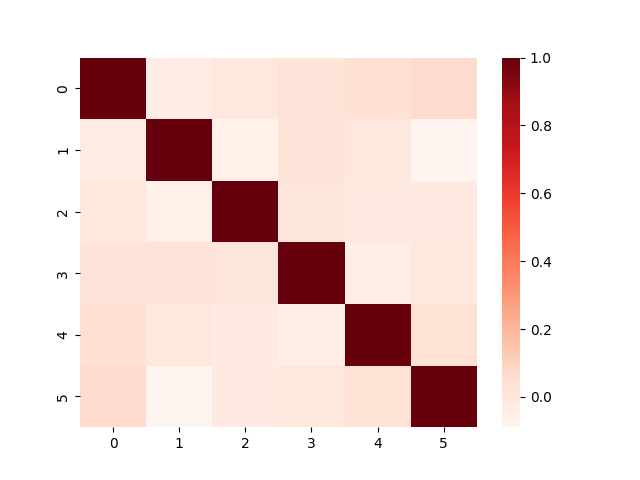
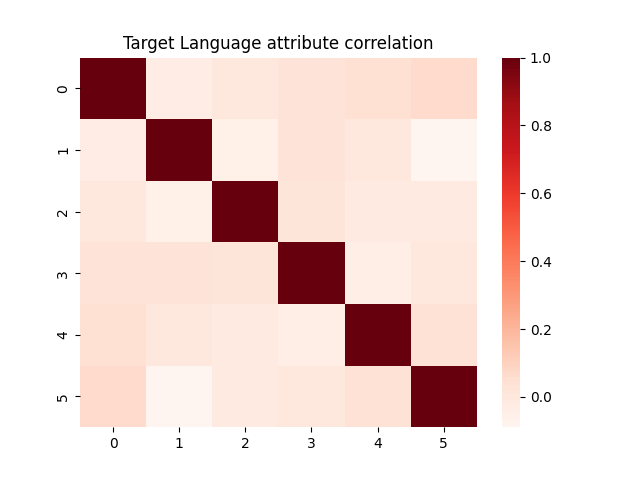
Added a full scatter plot method and visualization to vizualization_data.py

Changed region(s): [[0.1875, 0.0625, 0.6875, 0.125]]

diff --git a/vizualization_data.py b/vizualization_data.py
@@ -24,19 +24,23 @@ def load(pathname, vizualization=0):
     return attribute, label
 
 
-def histogram_1n(male, female, x_axis="", y_axis=""):
-    plt.xlim((min(min(male), min(female)) - 1, max(max(male), max(female)) + 1))
-    plt.hist(male, color="blue", alpha=alpha_val, label=class_label[0], density=True, bins=np.arange(male.min(), male.max()+2,1), edgecolor='grey')
+def histogram_1n(non_target, target, x_axis="", y_axis="", legend = 1):
+    plt.xlim((min(min(non_target), min(target)) - 1, max(max(non_target), max(target)) + 1))
+    plt.hist(non_target, color="blue", alpha=alpha_val, label=class_label[0], density=True, bins=50, edgecolor='grey')
     plt.hist(
-        female, color="red", alpha=alpha_val, label=class_label[1], density=True, bins=np.arange(female.min(), female.max()+2,1), edgecolor='grey'
+        target, color="red", alpha=alpha_val, label=class_label[1], density=True, bins=20, edgecolor='grey'
     )
-    plt.legend(class_label)
+    if legend:
+        plt.legend(class_label)
+
+def scatter_2d(non_target, target, x_axis="", y_axis=""):
+    plt.scatter(non_target[0], non_target[1], c="blue", s=1.5)
+    plt.scatter(target[0], target[1], c="red", s=1.5)
+    plt.xlabel(x_axis)
+    plt.ylabel(y_axis)
 
 
-
-
-
-def graficar(attributes):
+def graficar(attributes, save = 0):
     attribute_names = []
     for i in range(attributes.shape[0]):
         attribute_names.append(str(i))
@@ -54,11 +58,43 @@ def graficar(attributes):
         for yk, yv in values_histogram.items():
             if xk == yk:
                 histogram_1n(xv[0], xv[1], x_axis=xk)
-
-                plt.savefig(f"{os.getcwd()}/Image/histogram-dim-{cont}.png")
+                if save:
+                    plt.savefig(f"{os.getcwd()}/Image/histogram-dim-{cont}.png")
                 plt.show()
                 cont += 1
 
+def long_graficar(attributes):
+    attribute_names = []
+    for i in range(attributes.shape[0]):
+        attribute_names.append(str(i))
+    values_histogram = {}
+
+    for i in range(len(attribute_names)):
+        values_histogram[attribute_names[i]] = [
+            attributes[i, labels == 0],
+            attributes[i, labels == 1],
+        ]
+
+    for a in attribute_names:
+        histogram_1n(
+            values_histogram[a][0],
+            values_histogram[a][1],
+            x_axis=a,
+        )
+
+
+    cont = 1
+    for xk, xv in values_histogram.items():
+        for yk, yv in values_histogram.items():
+            if xk == yk:
+                plt.subplot(attributes.shape[0], attributes.shape[0], cont)
+                histogram_1n(xv[0], xv[1], legend=0)
+                cont += 1
+            else:
+                plt.subplot(attributes.shape[0], attributes.shape[0], cont)
+                scatter_2d([xv[0], yv[0]], [xv[1], yv[1]])
+                cont += 1
+    plt.show()
 
 def graf_LDA(attributes, lables):
 
@@ -98,24 +134,26 @@ def graph_corr(attributes,labels):
     plt.title("Total attribute correlation")
     plt.savefig(f"{os.getcwd()}/Image/Dataset-correlation.png")
     plt.show()
-    #correlation of males
-    males = attributes[:, labels==0]
-    corr_attr = np.corrcoef(males)
+    #correlation of non-target language
+    nont_language = attributes[:, labels==0]
+    corr_attr = np.corrcoef(nont_language)
     sns.heatmap(corr_attr, cmap='Blues')
     plt.title(f"{class_label[0]} attribute correlation")
     plt.savefig(f"{os.getcwd()}/Image/{class_label[0]}-correlation.png")
     plt.show()
-    #correlation of females
-    females= attributes[:, labels==1]
-    corr_attr = np.corrcoef(females)
+    #correlation of target language
+    targ_language= attributes[:, labels==1]
+    corr_attr = np.corrcoef(targ_language)
     sns.heatmap(corr_attr, cmap="Reds")
-    plt.savefig(f"{os.getcwd()}/Image/{class_label[1]}-correlation.png")
     plt.title(f"{class_label[1]} attribute correlation")
+    plt.savefig(f"{os.getcwd()}/Image/{class_label[1]}-correlation.png")
     plt.show()
 
 if __name__ == "__main__":
     path = os.path.abspath("data/Train.txt")
     [attributes, labels] = load(path)
+    standard_deviation = np.std(attributes)
+    z_data = ML.center_data(attributes) / standard_deviation
     for i in range(attributes.shape[0]):
         print(f"max {i}: {max(attributes[i])}", end="\t")
         print(f"min {i}: {min(attributes[i])}")
@@ -127,8 +165,9 @@ if __name__ == "__main__":
     print(f"Possible classes: {class_label[0]}, {class_label[1]}")
 
 
-    graficar(attributes)
-    graf_LDA(attributes, labels)
-    graf_PCA(attributes, labels)
+    # graficar(attributes)
+    # graf_LDA(attributes, labels)
+    # graf_PCA(attributes, labels)
     graph_corr(attributes, labels)
+    # long_graficar(attributes)
 
